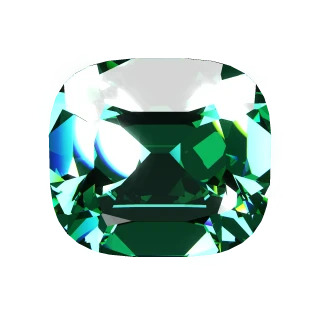
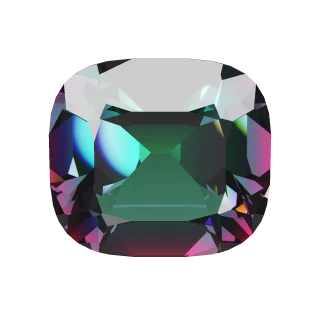
宝石の絵：アレキの色の変わり方を元に戻して暗さだけ直し、ダイヤのファイアを 0.7 に戻す (#156)
- アレキサンドライト：前回、暗さを直すために多色性（横向きの色）を外したが、ピンクがまったく出なくなった。
  色の値と多色性を元に戻し、照明のあいだの暗い空を 8 倍明るくする（GEM_LOOK の fill）ことで、
  中の黒く沈んでいた部分に地の色が見えるようにした
- ダイヤモンド：ファイアを 2 から元の 0.7 に戻した（明るさ 0.6 と鋭い照明はそのまま）
- 2 つのアイコンを書き出し直し、SW の版数を v139 に

Claude-Session: https://claude.ai/code/session_01TxinNWcW1GdX7YjeGdTSna

diff --git a/js/gem-gl.js b/js/gem-gl.js
@@ -10,16 +10,16 @@
 // 見た目の数値。mode：trace（透明）・cab（カボション）・facet（不透明なカット面）・tumble（丸く磨いた石）
 // t：長さ 1 進んだときに残る光の割合（RGB）、d：濃さ、pleo：横向きに進むときの色（多色性）、bi：バイカラーのもう一方の色
 // fog・fogD：乳白（中で散る光の色と濃さ）、kind：シェーダーの石の番号、ri：屈折率（不透明な石）
-// exp・fire：その石だけの明るさ・ファイア（省くと 1.2・1.6）、spin0：置く向き（度。旧アイコンの向きに合わせる）、spark：小さく鋭い照明（分散の強い石）
+// exp・fire：その石だけの明るさ・ファイア（省くと 1.2・1.6）、spin0：置く向き（度。旧アイコンの向きに合わせる）、spark：小さく鋭い照明（分散の強い石）、fill：照明のあいだの暗い空の明るさの倍率（中が黒く沈む石の地の色を見せる）
 const T = (cut, ior, disp, t, d, ex) => ({ mode: 'trace', cut, ior, disp, t, d, ...ex });
 const C = (cut, kind, ri) => ({ mode: 'cab', cut, kind, ri });
 export const GEM_LOOK = {
-  diamond: T('brilliant', 2.42, 0.044, [0.98, 0.985, 1.0], 1, { exp: 0.6, fire: 2, spark: true }),
+  diamond: T('brilliant', 2.42, 0.044, [0.98, 0.985, 1.0], 1, { exp: 0.6, fire: 0.7, spark: true }),
   topaz: T('brilliant', 1.62, 0.014, [1.0, 0.7, 0.12], 1.0),
   ruby: T('oval', 1.77, 0.018, [0.95, 0.07, 0.2], 1.2),
   sapphire: T('oval', 1.77, 0.018, [0.12, 0.25, 0.95], 1.2),
   garnet: T('cushion', 1.76, 0.027, [0.82, 0.04, 0.16], 1.25),
-  alexandrite: T('cushion', 1.75, 0.015, [0.2, 0.86, 0.6], 0.9, { exp: 1.5 }),
+  alexandrite: T('cushion', 1.75, 0.015, [0.12, 0.66, 0.42], 1.5, { pleo: [0.72, 0.16, 0.32], fill: 8 }),
   redberyl: T('cushion', 1.57, 0.014, [0.95, 0.12, 0.4], 1.0),
   emerald: T('step', 1.58, 0.014, [0.1, 0.8, 0.38], 1.1),
   aquamarine: T('step', 1.58, 0.014, [0.55, 0.95, 0.97], 1.0),
@@ -540,7 +540,8 @@ function createRenderer(canvas) {
     gl.uniform4fv(uni.uL, L);
     gl.uniform2fv(uni.uLc, Lc);
     gl.uniform1i(uni.uNL, E.L.length);
-    gl.uniform4f(uni.uEnv, E.sky0, E.sky1, E.floor, 0);
+    const fill = g.fill || 1;
+    gl.uniform4f(uni.uEnv, E.sky0 * fill, E.sky1 * fill, E.floor * fill, 0);
     gl.uniform2f(uni.uHead, Math.cos(E.head * D2R), Math.cos(E.head * 1.4 * D2R));
     gl.uniform1i(uni.uMode, MODE[g.mode]);
     gl.uniform1i(uni.uKind, g.kind || 0);

diff --git a/sw.js b/sw.js
@@ -1,5 +1,5 @@
 // オフラインでも あそべるように キャッシュする
-const CACHE = 'jewel-survivor-v138';
+const CACHE = 'jewel-survivor-v139';
 const ASSETS = [
   './', './index.html', './css/style.css', './manifest.webmanifest',
   './js/main.js', './js/game.js', './js/weapons.js', './js/data.js', './js/render.js', './js/fx.js',

diff --git a/CLAUDE.md b/CLAUDE.md
@@ -47,7 +47,7 @@
 - 大きい背景の光（.rays）を入れるスクロールする画面は `.rays-clip` で包む（スクロールの範囲が光の分だけ広がるため）。はみ出しうる画面の中央寄せは前後の余白 auto で行う（justify-content: center だと上側に届かない）。
 - コイン報酬のアイコンは coinIcon。ユーザーランクは称号の素材の見た目（`.rk-mat` ＋ `.rk-acrylic` / `.rk-glass` / `.rk-crystal`。タイトル左上のチップ・詳細の板・称号の段で共通）。
 - ステージのカード（ステージ選択・図鑑）の背景は scene-art.js の風景（`has-scene` と `--scene`。ui.js の paintScenes が、描き済みはすぐ、まだのものは 1 枚ずつ間をあけて描いて貼る）。カードを選んだときは作り直さず選択の枠だけ付け替える（markSel。作り直すと風景がちらつく）。
-- 宝石の絵は光線追跡（gem-gl.js。カットを平面の集合で作り、屈折・全反射・分散・吸収を計算する。透明な石は波長ごとに `NW` 本の光線を出し（屈折率はコーシーの式。点ごとに波長をずらすので、細かく描くほどファイアの色がなめらかにつながる。NW を増やすとその分重い）、近くから見る向き（`PERSP`。面の中で見る向きが変わり、ファイアの中で色が移ろう。表の面で跳ね返る光だけは遠くからの向き）で描く。分散の強い石（GEM_LOOK の `spark`）は小さく鋭い照明（`ENV_SPARK`）。不透明な石はカボション（裏から見ると平らな底の面）・カット面・丸く磨いた石の描き方。オパールの遊色とラブラドライトのひらめきは、中の層の向きと照明・見る向きから計算する layerFlash で、傾けると光る場所と色が変わる）。アイコン（gemIcon）は書き出した画像 `img/gems/<id>.webp` を返す。ホーム・ジュエル選択・コレクションの宝石のカード（持っている宝石）・オークションの競りと落札の画面（宝石の品）の宝石は mountLiveGem でその場で描く（画像の横にキャンバスを置いて入れ替える。キャンバスと WebGL はアプリで 1 つを使い回し、画像が画面から外れると止まる。WebGL が使えないときは画像のまま）。ゲーム中の弾などの小さな宝石は gem-art.js の絵（gemSprite）。見た目を変えたら tools/test/gem-bake.js で書き出し直して画像もコミットする。
+- 宝石の絵は光線追跡（gem-gl.js。カットを平面の集合で作り、屈折・全反射・分散・吸収を計算する。透明な石は波長ごとに `NW` 本の光線を出し（屈折率はコーシーの式。点ごとに波長をずらすので、細かく描くほどファイアの色がなめらかにつながる。NW を増やすとその分重い）、近くから見る向き（`PERSP`。面の中で見る向きが変わり、ファイアの中で色が移ろう。表の面で跳ね返る光だけは遠くからの向き）で描く。分散の強い石（GEM_LOOK の `spark`）は小さく鋭い照明（`ENV_SPARK`）。中が黒く沈む石は `fill` で照明のあいだの暗い空を明るくして地の色を見せる（アレキサンドライト。色の変わり方 `pleo` はそのまま）。不透明な石はカボション（裏から見ると平らな底の面）・カット面・丸く磨いた石の描き方。オパールの遊色とラブラドライトのひらめきは、中の層の向きと照明・見る向きから計算する layerFlash で、傾けると光る場所と色が変わる）。アイコン（gemIcon）は書き出した画像 `img/gems/<id>.webp` を返す。ホーム・ジュエル選択・コレクションの宝石のカード（持っている宝石）・オークションの競りと落札の画面（宝石の品）の宝石は mountLiveGem でその場で描く（画像の横にキャンバスを置いて入れ替える。キャンバスと WebGL はアプリで 1 つを使い回し、画像が画面から外れると止まる。WebGL が使えないときは画像のまま）。ゲーム中の弾などの小さな宝石は gem-art.js の絵（gemSprite）。見た目を変えたら tools/test/gem-bake.js で書き出し直して画像もコミットする。
 - 鑑賞モード（gem-view.js）：コレクションの宝石の詳細で、持っている宝石の絵（右下の虫眼鏡）を押すと開く。ドラッグで回す（画面の縦軸・横軸まわり。はじくと惰性）・2 本指とホイールで拡大・スライダー（明るさ・ファイア（透明な石だけ）・きらめき）・ゆらす・リセット・背景の白黒。スライダーは保存しない（ユーザーの希望）。背景の白黒だけアプリを閉じるまで覚える。描画は mountLiveGem に `ctl` を渡して同じキャンバスと WebGL を借りる（ctl.frame が描く値を返し、動いていないあいだは描かず、止まった直後に 1 度だけ細かく描く）。draw の最後の引数 `o` を省いたときの見た目（アイコン・その場で描く宝石）は変えない。白い背景では仕上げのシェーダーの `uLight` で石の外のにじみを足さない（灰色の輪になるため）。閉じたら下のカードの宝石に mountLiveGem し直す。
 - ジュエル選択の宝石は額装（case-art.js。奥のベルベット `showcaseBack` は宝石の色の彩度を大きく落としてうっすら乗せる、手前の枠 `showcaseFront` は共通の 1 枚。宝石は gemIcon の img を間に置き、影の位置は `CASE_GEM` と CSS の `.sc-gem` で合わせる）。
 - 実績はメダル（ui.js の medalTier で報酬から 銅・銀・金・虹、`.medal`）。図鑑の敵はモンスターカード（`.mon`。未遭遇はシルエット、ボスは金の額縁）、武器・チャームは属性の色の縁取り（`.gemcard`）。
@@ -286,7 +286,7 @@
 ## 6. リリース手順
 
 1. 作業ブランチはセッションで指定されたもの。main に取り込むときに origin/main から作り直すので、先に `git status` で未コミットの新規ファイルを確認する。
-2. sw.js の `CACHE` の版数を 1 つ上げる（現在 `jewel-survivor-v138`）。新しいファイルは `ASSETS` にも足す。
+2. sw.js の `CACHE` の版数を 1 つ上げる（現在 `jewel-survivor-v139`）。新しいファイルは `ASSETS` にも足す。
 3. `node --check` と、変えた箇所だけのテスト。
 4. 取り込み：
    ```sh
